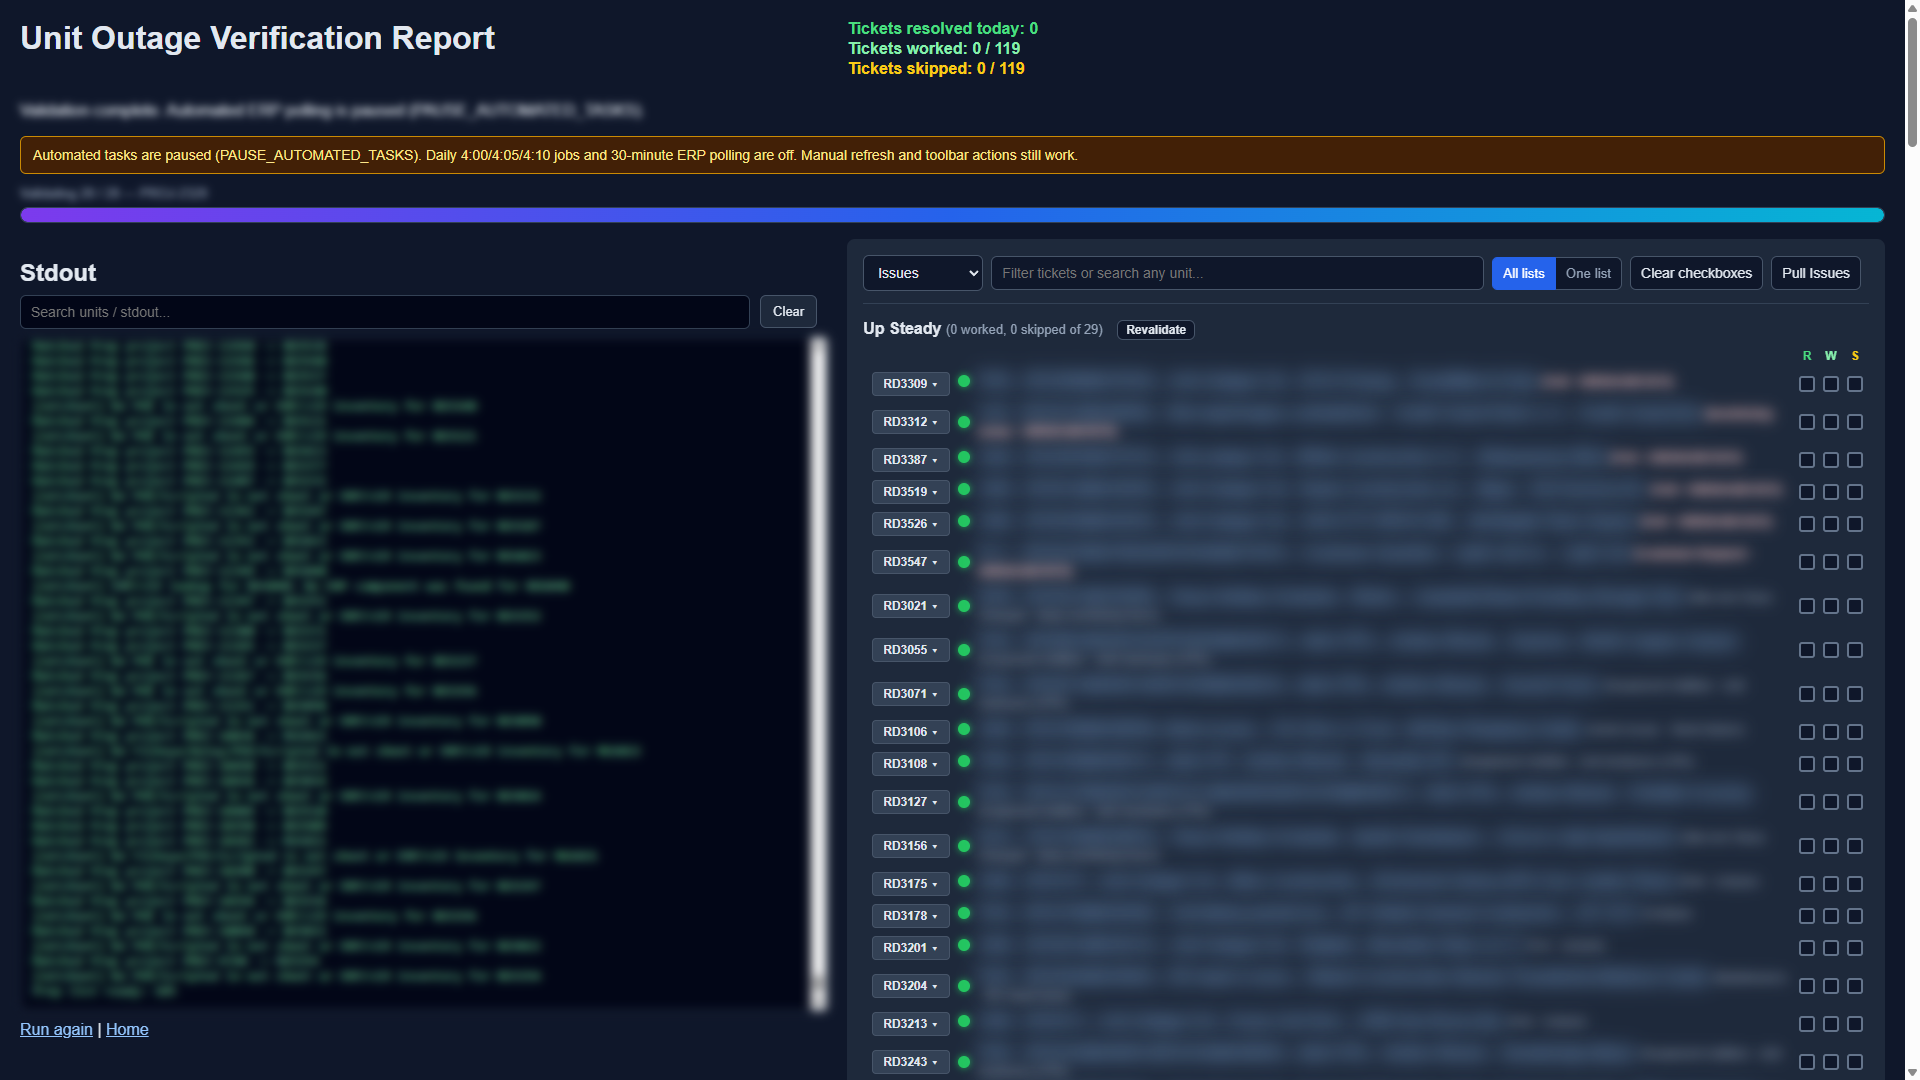
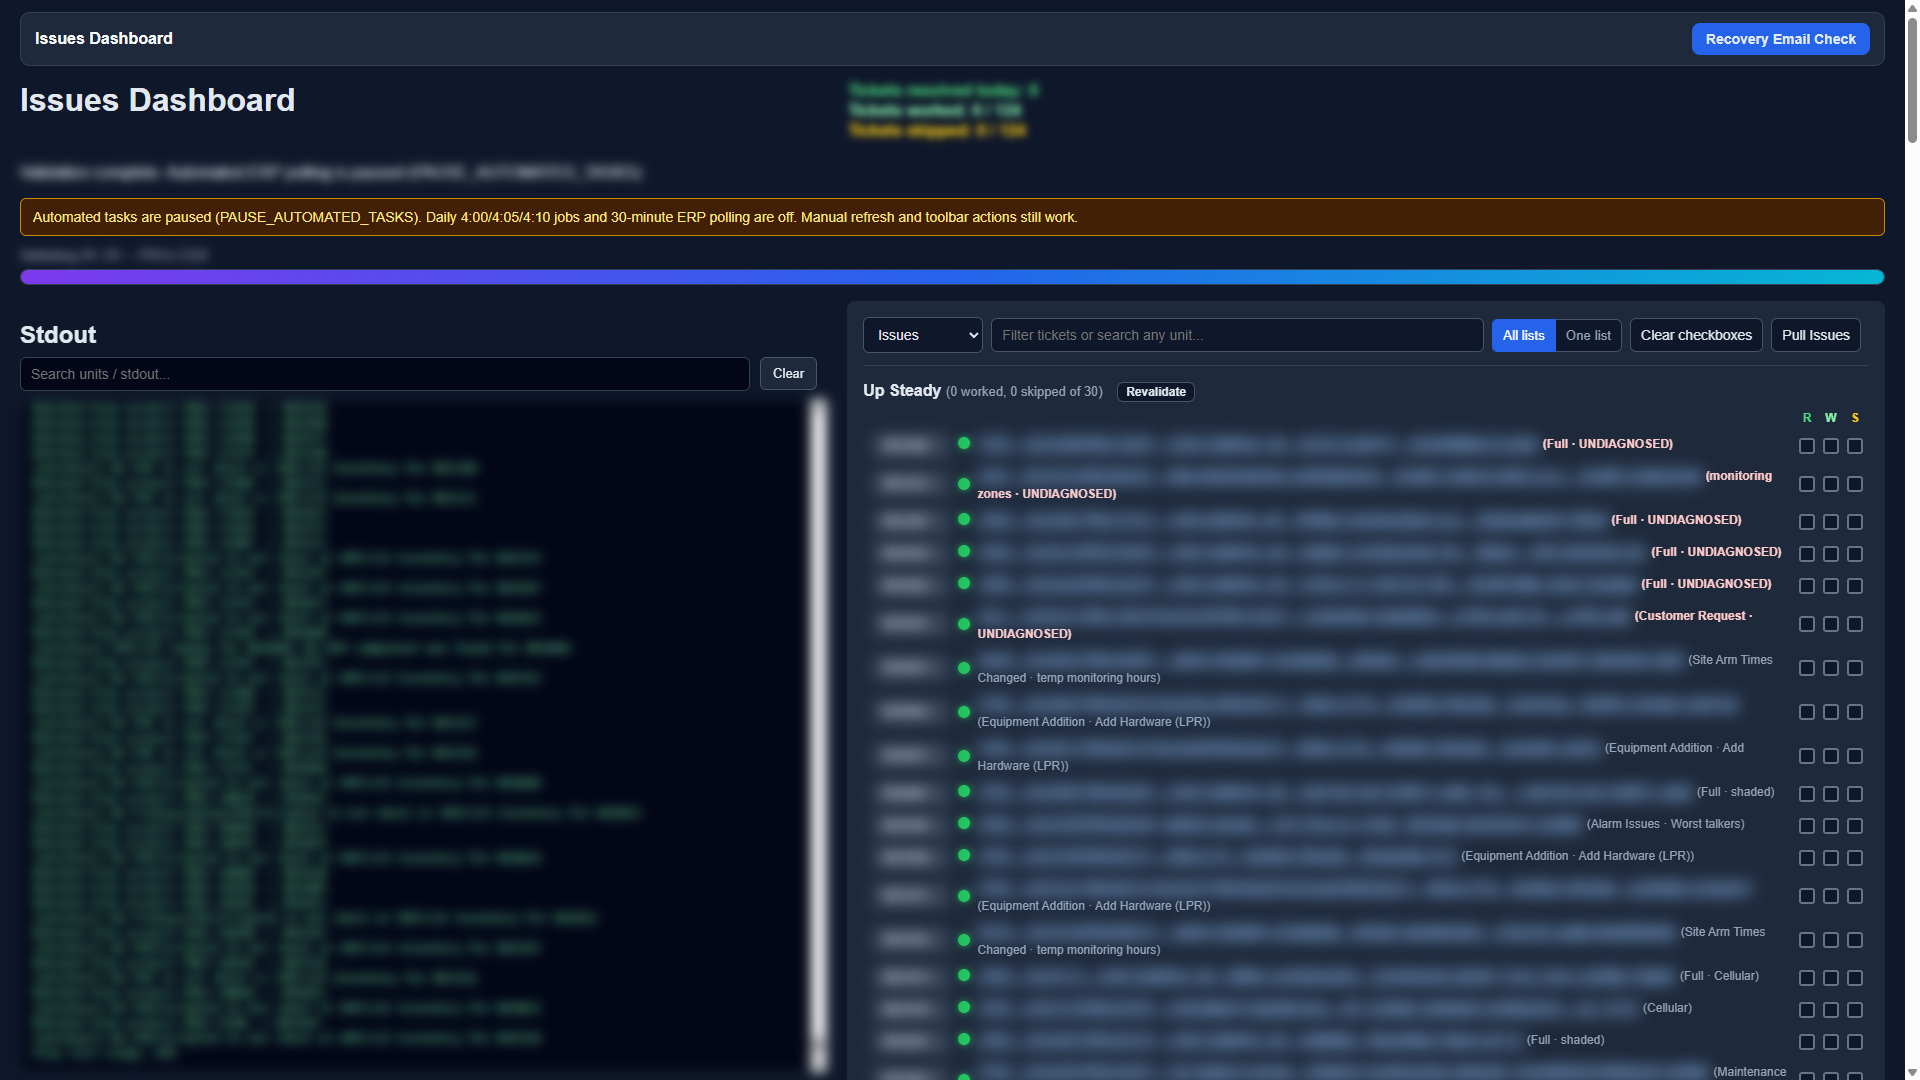
Add Shield/ERP destination screenshots and refine Issues blur rules.
Document Open Event Records / Shield component+site pages with readable URLs, and keep type/subtype/UNDIAGNOSED/LED indicators visible on the Issues report shot.

diff --git a/README.md b/README.md
@@ -148,6 +148,12 @@ In-app **Open** menu with **Shield** and **ERP** expanded. Button labels are unb
 | **Open RD Component** | Shield component `SC-{unit}` (RD/FD/MU as applicable) |
 | **Open Trailer Component** | Attached MU/trailer component, or disabled when none (e.g. ACRD) |
 
+Example destinations from an Up Steady RD (URL left readable; field values / notes blurred; component name kept):
+
+![Shield RD component](docs/screenshots/17-shield-rd-component.png)
+
+![Shield site page](docs/screenshots/18-shield-site.png)
+
 **ERP** (opens `erp.{workTLD}` — may require login):
 
 ![ERP open buttons](docs/screenshots/13-erp-open-buttons.png)
@@ -158,6 +164,10 @@ In-app **Open** menu with **Shield** and **ERP** expanded. Button labels are unb
 | **Open Site Page** | ERP site page |
 | **Open RD Component** | ERP component `SC-{unit}` |
 | **Open Trailer Component** | Attached trailer/MU component when present |
+
+Example destination from **Open Event Records** (Up Steady RD). URL keeps the GET filters readable (`component` like `SC-RD####%`, `creation` last 7 days); record IDs / site values may be blurred in docs:
+
+![ERP Event Record filters](docs/screenshots/16-erp-event-records.png)
 
 **Also under Open**
 
@@ -170,7 +180,7 @@ In-app **Open** menu with **Shield** and **ERP** expanded. Button labels are unb
 - Open Scrypted  
 - Open VRM  
 
-These open browser tabs / redirects. They do **not** write ERP fields by themselves. Destination Shield/ERP pages are behind company auth, so docs show the in-app buttons rather than live site forms.
+These open browser tabs / redirects. They do **not** write ERP fields by themselves. Destination Shield/ERP pages are behind company auth.
 
 ### Switch
 
@@ -281,4 +291,18 @@ See `.env.example` for the full list. Common ones:
 
 ## Regenerating screenshots
 
-Screenshots live in `docs/screenshots/`. They were captured with the Cursor browser tools against a local `:5000` instance (gowitness is optional; not required). Before capture, inject CSS blur on `.ticket-label`, unit command buttons, and `.console`, and **do not** press ERP write confirmations.
+Screenshots live in `docs/screenshots/`. They were captured with the Cursor browser tools against a local `:5000` instance (gowitness is optional; not required).
+
+**Issues Dashboard blur rules**
+
+- Blur ticket subject / unit link text (`.ticket-label > a`), unit command-button labels, stdout, and counters.
+- **Leave readable:** status LEDs, issue type / subtype meta (`.meta`), **UNDIAGNOSED** (`.undiagnosed-badge`), **(New!)** (`.new-ticket-badge`), and menu chrome labels.
+- Do **not** press ERP write confirmations.
+
+**Shield / ERP destination pages** (from Open → Shield / ERP on an Up Steady RD)
+
+- Prefer **Open RD Component** (Shield + ERP) and **Open Event Records** (ERP) so the address bar / URL shows the GET path and filters.
+- Blur field **values**; leave field **names** readable.
+- OK to blur site IDs; component names (e.g. `SC-RD####`) can stay visible.
+- Do **not** blur the page URL (inject a URL ribbon if the browser chrome is not in the capture).
+- Cursor browser must be logged into Shield and ERP separately from your system browser.
